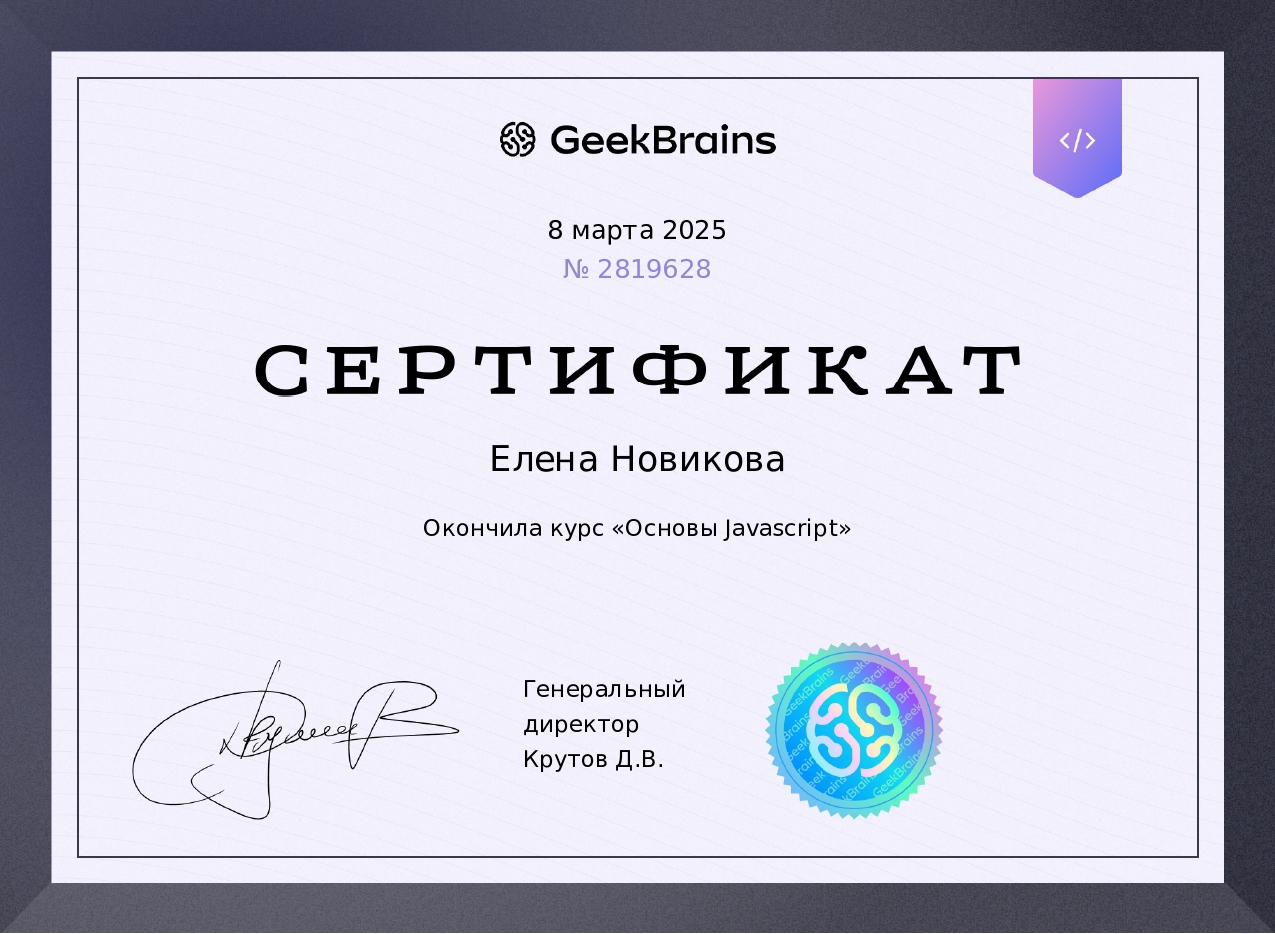
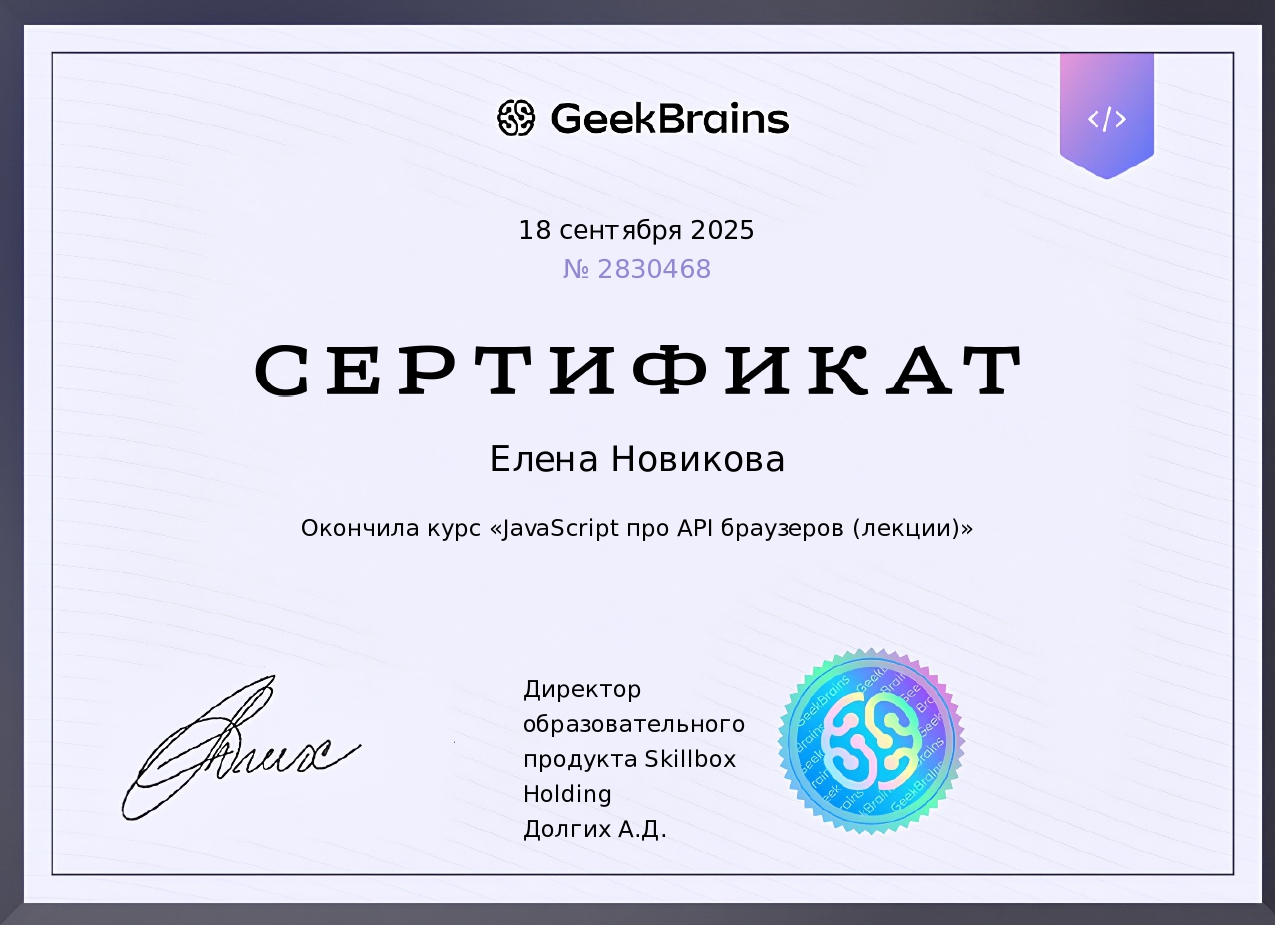
Save

diff --git a/src/components/main/Motivation.js b/src/components/main/Motivation.js
@@ -2,32 +2,27 @@ import '../../style/main/Motivation.css';
 import React, { useState } from 'react'
 
 const Motivation = () => {
-    
-     const [data, setData] = useState(["Сложнее всего начать действовать, все остальное зависит только от упорства. — Амелия Эрхарт.", "Начинать всегда стоит с того, что сеет сомнения. — Борис Стругацкий.", "Если я полон решимости, я преодолею любое препятствие. — Абай Кунанбаев.", "Обстоятельства часто можно изменить, изменив свое отношение к ним. — Элеонора Рузвельт.", "Вдохновение приходит только во время работы. — Габриэль Гарсиа Маркес.", "Если проблему можно решить, не стоит о ней беспокоиться. — Далай-лама XIV.", "Постановка целей — это первый шаг к превращению невидимого в видимое. — Тони Роббинс.", "Если вам не нравится дорога, по которой вы идете, начните прокладывать другую. — Долли Партон.", "Я твердо верю в удачу. И я заметил: чем больше я работаю, тем больше она мне улыбается. — Томас Джефферсон.", "Постарайтесь получить то, что любите, иначе придется полюбить то, что получили. — Джордж Бернард Шоу.", "Живите в соответствии со своим воображением, а не своим прошлым. — Стивен Кови.", "Дайте человеку цель, ради которой стоит жить, и он сможет выжить в любой ситуации. — Иоганн Вольфганг Гёте.", "Лидеры не рождаются и не делаются кем-либо — они делают себя сами. — Стивен Кови.", "Не позволяйте вчерашнему дню занимать слишком много места в сегодняшнем. — Уилл Роджерс.", "Измените свою жизнь сегодня. Не рассчитывайте на будущее, действуйте сейчас, не откладывая. — Симона де Бовуар.", "Делай сегодня то, что другие не хотят — завтра будешь жить так, как другие не могут. — Джаред Лето.", "Храбрость не всегда кричит. Иногда храбрость говорит тихим голосом в конце дня: Завтра я попытаюсь еще раз. — Мэри Энн Редмачер."]);
-  const [randomValue, setRandomValue] = useState();
 
-  function handleClick(event) {
-     event.currentTarget.disabled = true;
-    const randomIndex = Math.floor(Math.random() * data.length);
-    setRandomValue(data[randomIndex]);
-  }
+    const [data, setData] = useState(["Сложнее всего начать действовать, все остальное зависит только от упорства. — Амелия Эрхарт.", "Начинать всегда стоит с того, что сеет сомнения. — Борис Стругацкий.", "Если я полон решимости, я преодолею любое препятствие. — Абай Кунанбаев.", "Обстоятельства часто можно изменить, изменив свое отношение к ним. — Элеонора Рузвельт.", "Вдохновение приходит только во время работы. — Габриэль Гарсиа Маркес.", "Если проблему можно решить, не стоит о ней беспокоиться. — Далай-лама XIV.", "Постановка целей — это первый шаг к превращению невидимого в видимое. — Тони Роббинс.", "Если вам не нравится дорога, по которой вы идете, начните прокладывать другую. — Долли Партон.", "Я твердо верю в удачу. И я заметил: чем больше я работаю, тем больше она мне улыбается. — Томас Джефферсон.", "Постарайтесь получить то, что любите, иначе придется полюбить то, что получили. — Джордж Бернард Шоу.", "Живите в соответствии со своим воображением, а не своим прошлым. — Стивен Кови.", "Дайте человеку цель, ради которой стоит жить, и он сможет выжить в любой ситуации. — Иоганн Вольфганг Гёте.", "Лидеры не рождаются и не делаются кем-либо — они делают себя сами. — Стивен Кови.", "Не позволяйте вчерашнему дню занимать слишком много места в сегодняшнем. — Уилл Роджерс.", "Измените свою жизнь сегодня. Не рассчитывайте на будущее, действуйте сейчас, не откладывая. — Симона де Бовуар.", "Делай сегодня то, что другие не хотят — завтра будешь жить так, как другие не могут. — Джаред Лето.", "Храбрость не всегда кричит. Иногда храбрость говорит тихим голосом в конце дня: Завтра я попытаюсь еще раз. — Мэри Энн Редмачер."]);
+    const [randomValue, setRandomValue] = useState();
+
+    function handleClick(event) {
+        event.currentTarget.disabled = true;
+        const randomIndex = Math.floor(Math.random() * data.length);
+        setRandomValue(data[randomIndex]);
+    }
 
     return (
         <div className='motivation'>
             <div className='motivation-block'>
-               <button className="motivation-btn" onClick={handleClick}>Узнай свою мотивационную фразу на сегодня</button>
-            <p className="motivation-text">При обновление страницы мотивационная фраза будет новой. <br /><br />Данные появляются в рандомном порядке.</p>  
+                <button className="motivation-btn" onClick={handleClick}>Узнай свою мотивационную фразу на сегодня</button>
+                <p className="motivation-text">При обновление страницы мотивационная фраза будет новой. <br /><br />Данные появляются в рандомном порядке.</p>
             </div>
-           
-<div className="modalRandom">
-     <p>{randomValue}</p>
-</div>
+            <div className="modalRandom">
+                <p>{randomValue}</p>
+            </div>
+        </div>
 
-           
-        </div> 
-       
     )
-   
- 
 }
 export default Motivation;

diff --git a/src/components/main/User.js b/src/components/main/User.js
@@ -4,20 +4,20 @@ import MyPhoto from "../../img/img/myPhoto/my_photo994.png";
 
 const User = () => {
     return (
-        <section class="user center930">
-            <div class="user-info">
-                <h1 class="user-info-head ">Привет!
-                    Меня зовут Елена Новикова, <br />я <span class="span-color-violet">графический дизайнер</span> и
-                    <br /> <span class="span-color-violet">frontend-разработчик (JUNIOR)</span>
+        <section className="user center930">
+            <div className="user-info">
+                <h1 className="user-info-head ">Привет!
+                    Меня зовут Елена Новикова, <br />я <span className="span-color-violet">графический дизайнер</span> и
+                    <br /> <span className="span-color-violet">frontend-разработчик (JUNIOR)</span>
 
                 </h1>
-                <p class="user-info-text">
+                <p className="user-info-text">
                     Здесь вы сможете узнать больше о моих проектах и навыках в области веб-разработки. <br /> <br />Если вы
                     ищете талантливого специалиста для работы над своими проектами, я буду рада присоединиться к вашей
                     команде.</p>
             </div>
             <div>
-                <img class="user-img" src={MyPhoto} alt="center_photo" />
+                <img className="user-img" src={MyPhoto} alt="center_photo" />
 
             </div>
            

diff --git a/src/components/portfolio/PortfolioComponent.js b/src/components/portfolio/PortfolioComponent.js
@@ -559,7 +559,7 @@ const PortfolioComponent = () => {
     {
       id: 5, text: 'Все работы', content: (<>
         <div className='portfolioAll'>
-        
+
 
           <img src={LoveIs1} className="d-block w-100 portfolioAll-img" alt="Love_is" />
           <img src={DreamArt1} className="d-block w-100 portfolioAll-img" alt="site_woman" />
@@ -577,7 +577,7 @@ const PortfolioComponent = () => {
           <img src={Metrics2} className="d-block w-100 portfolioAll-img" alt="Metrics" />
           <img src={Metrics3} className="d-block w-100 portfolioAll-img" alt="Metrics" />
 
-            <img src={OldPhotos3} className="d-block w-100 portfolioAll-img" alt="Old_photos" />
+          <img src={OldPhotos3} className="d-block w-100 portfolioAll-img" alt="Old_photos" />
           <img src={OldPhotos1} className="d-block w-100 portfolioAll-img" alt="Old_photos" />
           <img src={OldPhotos4} className="d-block w-100 portfolioAll-img" alt="Old_photos" />
 
@@ -621,7 +621,7 @@ const PortfolioComponent = () => {
             key={btn.id}
             onClick={() => setActiveId(btn.id)}
             style={{
-            
+
               backgroundColor: activeId === btn.id ? 'var(--color-violet)' : ' var(--color-green)',
               color: activeId === btn.id ? 'var(--color-site)' : 'var(--color-site)',
               border: 'none',

diff --git a/src/components/aboutmy/Training.js b/src/components/aboutmy/Training.js
@@ -25,6 +25,10 @@ const Training = () => {
         колледж
         <br /><span class="span-color-green">Специальность: </span>Прикладная информатика в экономике
       </div>
+       <div class="user__fron__skill1">
+        <span class="span-color-violet">Профессиональная переподготовка: </span>GeekBrains
+        <br /><span class="span-color-green">Специальность: </span>Разработчик. Программист. Frontend разработчик, React
+      </div>
       <div class="user__fron__skill1">
         <div class="span-color-green">Дополнительное образование на платформе GeekBrains:</div>
         <div class="certificate">
@@ -37,7 +41,7 @@ const Training = () => {
         </div>
       </div>
       <div class="user__fron__skill1">
-        GeekBrains (в процессе обучения) <br />
+       
         <span class="span-color-violet">Специальность: </span>Разработчик-программист
         <br /><span class="span-color-green">Направление: </span>frontend-разработчик
         <br /><span class="span-color-violet">Несколько сертификатов с курса: </span>

diff --git a/src/components/contacts/ContactsComponent.js b/src/components/contacts/ContactsComponent.js
@@ -6,17 +6,13 @@ import Vk from '../../img/img/vk-green.png';
 
 const ContactsComponent = () => {
     return (
-        <div className='contact'>
+        <section className='contact'>
             <h1>Рассматриваю удаленную работу</h1>
-
             <p className='contact-text'>Контакты:</p>
             <div className='contact-data'>
-              <p>8 912 474 25 78</p>
-            <p>elenanovikovawork@gmail.com</p>   
+                <p>8 912 474 25 78</p>
+                <p>elenanovikovawork@gmail.com</p>
             </div>
-           
-
-
             <div className="header-network-contact ">
 
                 <a href="https://max.ru/u/f9LHodD0cOKbxiOjjLBmEYKZTB1MaFQF43sNhuBFLjdgjYVePOmoIQg1V-E"><img
@@ -26,7 +22,7 @@ const ContactsComponent = () => {
                 <a href="https://vk.com/elenanovikova11"><img src={Vk} alt="vk изображение иконки"
                 /></a>
             </div>
-        </div>
+        </section>
     )
 }
 

diff --git a/src/components/main/MySkill.js b/src/components/main/MySkill.js
@@ -3,7 +3,7 @@ import React from 'react'
 import { NavLink } from 'react-router-dom';
 const MySkill = () => {
   return (
-      <div className="skill-site-window">
+      <section className="skill-site-window">
                 <div className="skill-site-window-block ">
                     Данный сайт сделан <span className="span-color-green ">ПОЛНОСТЬЮ МНОЙ</span>, от макета в программе FIGMA, до создания сайта в программе VS CODE (React)
                 </div>
@@ -20,7 +20,7 @@ const MySkill = () => {
                     <br />от повседневных офисных до более сложных, требующих определённых навыков.
                 </div>
                 <div className="skill-site-window-btn"><NavLink to='/AboutMy' >ОБО МНЕ</NavLink></div>
-            </div>
+            </section>
   )
 }
 

diff --git a/src/components/main/Footer.js b/src/components/main/Footer.js
@@ -4,8 +4,8 @@ import React from 'react'
 const Footer = () => {
   return (
   <footer>
-            <hr class="footer-hr" />
-            <p class="footer-text">
+            <hr className="footer-hr" />
+            <p className="footer-text">
                 © Все права на сайт пренадлежат Новиковой Елене</p>
         </footer>
   )

diff --git a/src/style/main/Footer.css b/src/style/main/Footer.css
@@ -9,10 +9,11 @@
 .footer-text {
   margin-top: 5px;
   margin-bottom: 15px;
-  color: rgb(127, 42, 255);
+  color: var(--color-violet);
   font-size: 16px;
   margin-left: 17px;
 }
+
 
 @media screen and (max-width: 1600px) {}
 

diff --git a/src/style/aboutmy/AboutMe.css b/src/style/aboutmy/AboutMe.css
@@ -57,8 +57,6 @@
   }
 
   .aboutMe-my {
-
-
     margin-left: 100px;
     margin-top: 72px;
     width: 422px;
